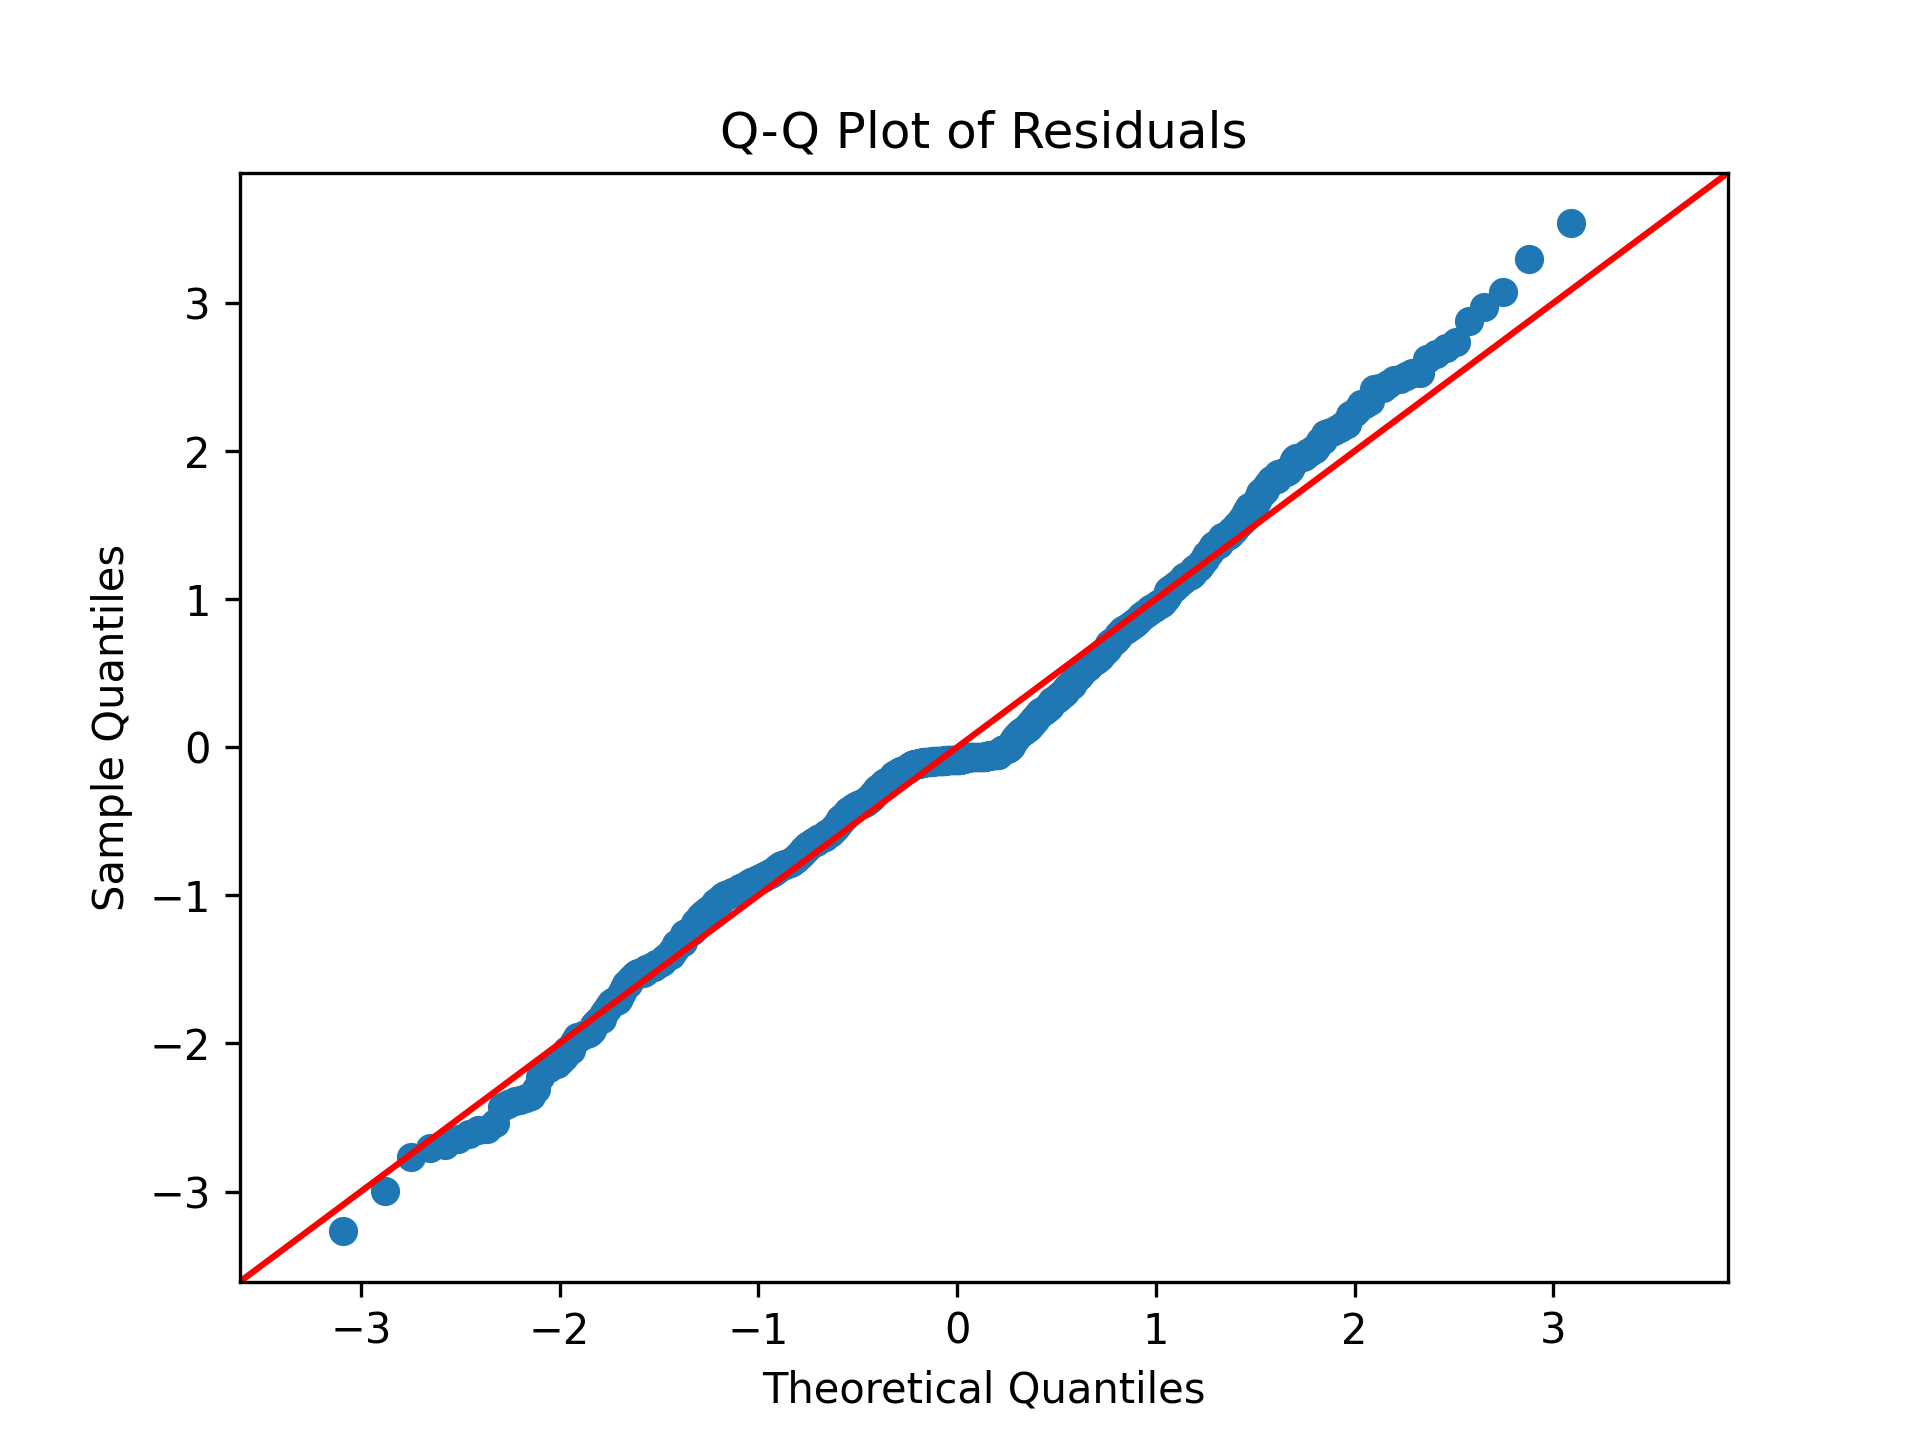
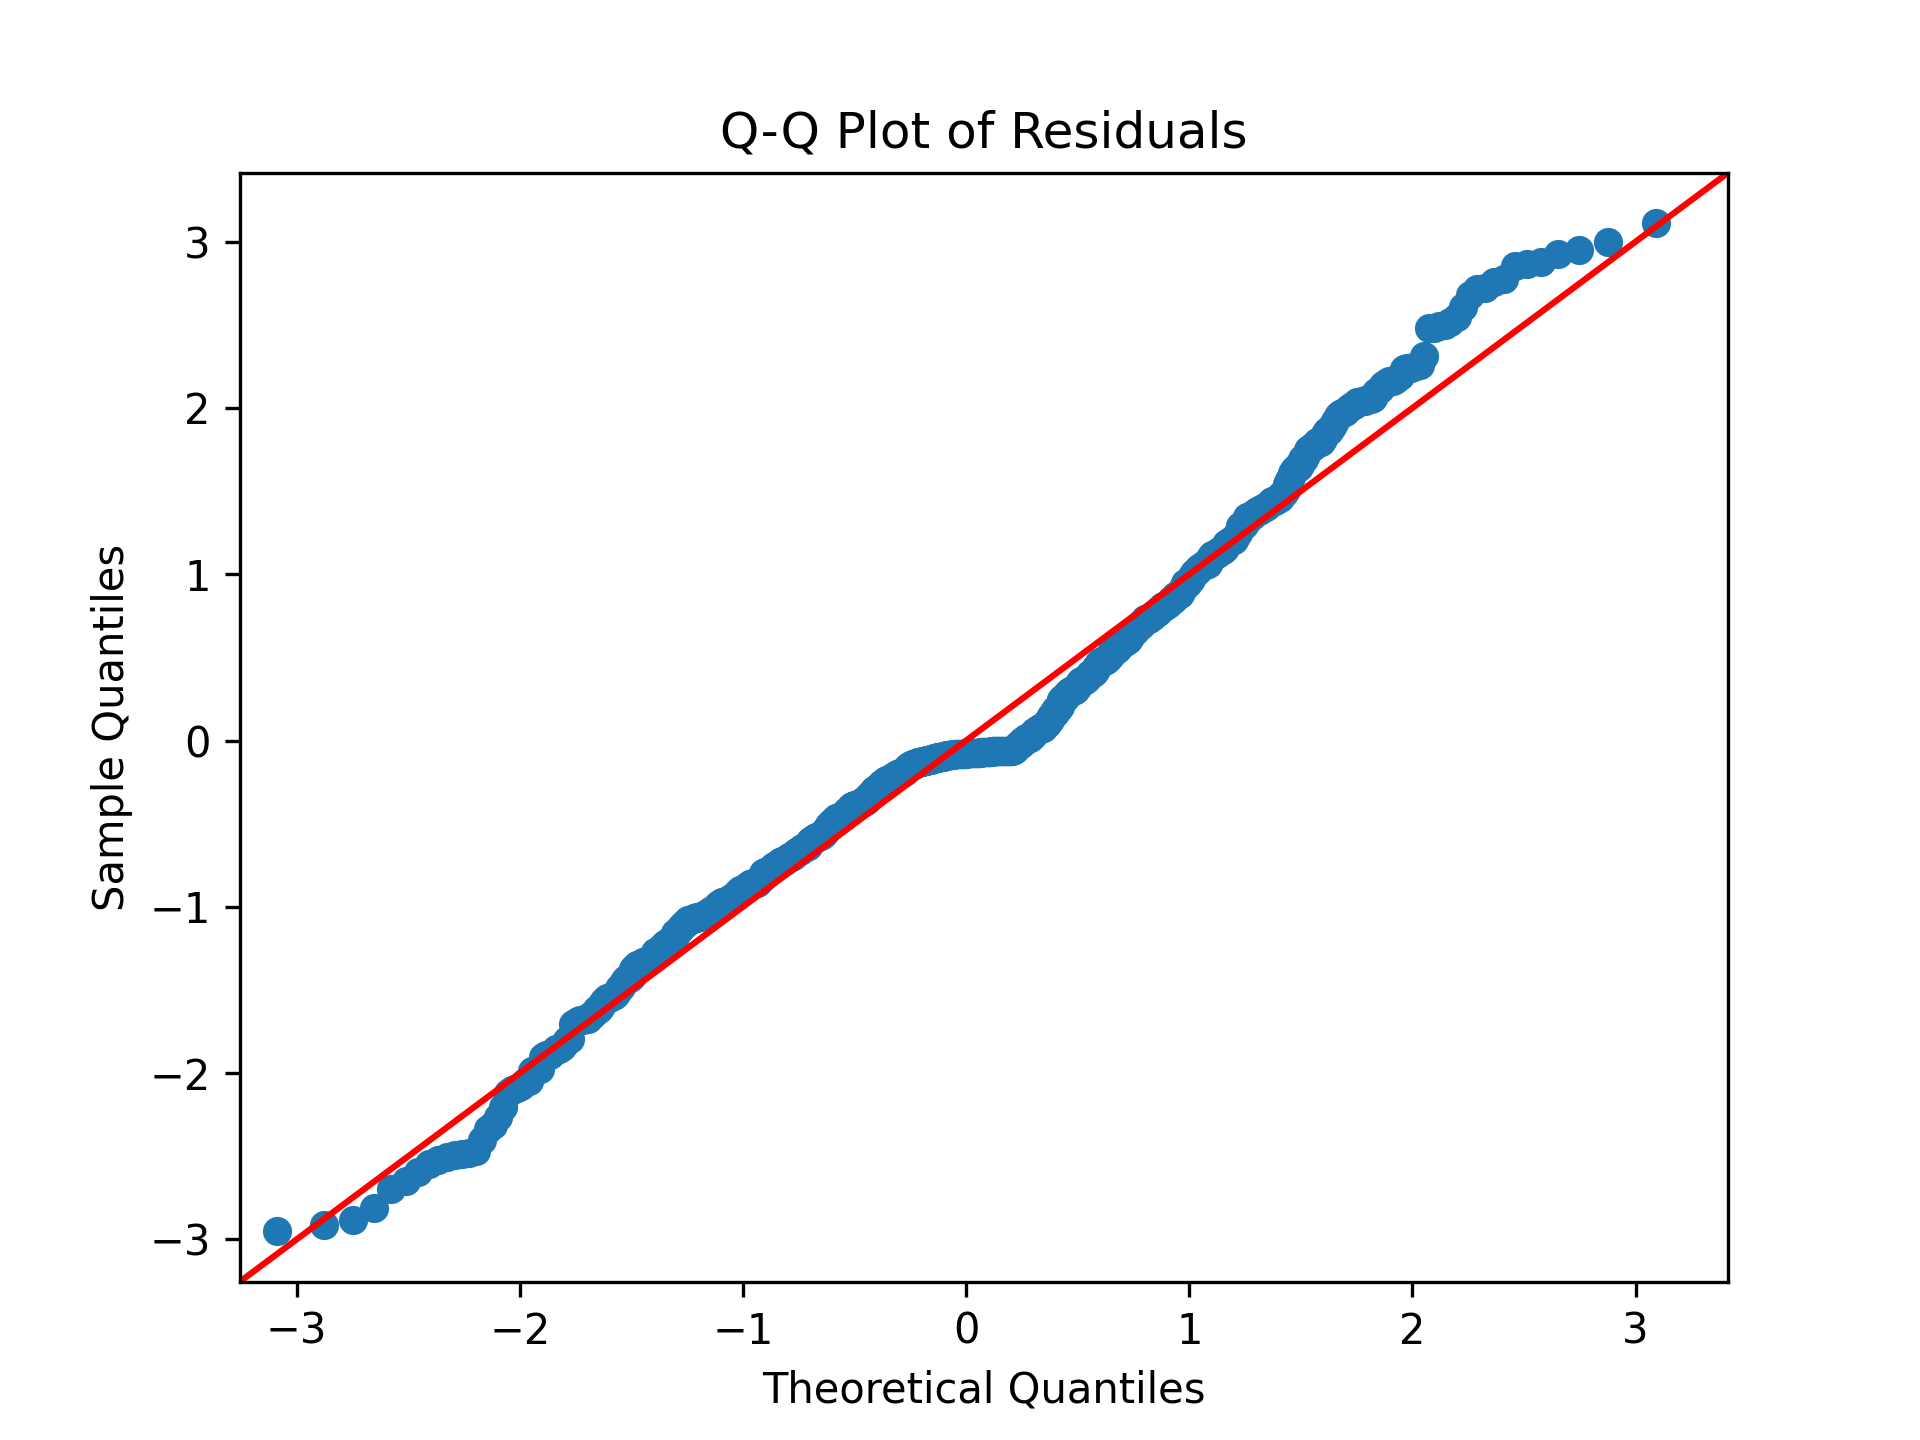
new new final update

diff --git a/results/report.html b/results/report.html
@@ -74,7 +74,7 @@
 <body>
     <div class="container">
         <h1>AI Agents Pipeline Report</h1>
-        <p><strong>Generated:</strong> 2025-12-12 16:29:43</p>
+        <p><strong>Generated:</strong> 2025-12-13 22:48:58</p>
 
         <h2>Status</h2>
         <p class="status-success">SUCCESS</p>
@@ -85,11 +85,11 @@
             <div class="metric-item"><strong>fallback_used:</strong> False</div>
             <div class="metric-item"><strong>original_rows:</strong> 5000</div>
             <div class="metric-item"><strong>original_columns:</strong> 26</div>
-            <div class="metric-item"><strong>processing_time:</strong> 1.76</div>
+            <div class="metric-item"><strong>processing_time:</strong> 1.96</div>
             <div class="metric-item"><strong>processed_rows:</strong> 5000</div>
             <div class="metric-item"><strong>processed_columns:</strong> 44</div>
-            <div class="metric-item"><strong>training_time:</strong> 29.73</div>
-            <div class="metric-item"><strong>total_pipeline_time:</strong> 31.57</div>
+            <div class="metric-item"><strong>training_time:</strong> 29.47</div>
+            <div class="metric-item"><strong>total_pipeline_time:</strong> 31.5</div>
         </div>
 
         <h2>Visualizations</h2>

diff --git a/run_experiments.py b/run_experiments.py
@@ -16,6 +16,7 @@ from sklearn.preprocessing import StandardScaler
 def run_experiments_with_orchestrator():
     """
     Експерименти 4-6 координирани от Orchestrator
+    ✅ OPTIMIZED VERSION - Faster Grid Search
     """
 
     # Създаваме Orchestrator
@@ -73,45 +74,55 @@ def run_experiments_with_orchestrator():
     orchestrator.log_model_selection(best_name, candidates, scores)
 
     # -------------------------------
-    # EXPERIMENT 5: Hyperparameter Tuning
+    # EXPERIMENT 5: Hyperparameter Tuning (OPTIMIZED)
     # -------------------------------
 
     orchestrator.log("\n" + "=" * 60)
-    orchestrator.log("EXPERIMENT 5: Hyperparameter Tuning")
+    orchestrator.log("EXPERIMENT 5: Hyperparameter Tuning (OPTIMIZED)")
     orchestrator.log("=" * 60)
 
     tuner = HyperparameterTuningAgent(model=best_model, cv=5, scoring='r2')
 
     if best_name == "RandomForest":
+        # ✅ OPTIMIZED: Reduced parameter grid (9 combinations instead of 36)
         param_grid = {
-            'n_estimators': [50, 100, 200],
-            'max_depth': [5, 10, None],
-            'min_samples_split': [2, 5],
-            'min_samples_leaf': [1, 2]
+            'n_estimators': [100, 200],  # 2 values (was 3)
+            'max_depth': [10, None],  # 2 values (was 3)
+            'min_samples_split': [2],  # 1 value (was 2)
+            'min_samples_leaf': [1]  # 1 value (was 2)
         }
+        # Total: 2 * 2 * 1 * 1 = 4 combinations (was 36)
+        # With CV=5: 4 * 5 = 20 fits (was 180)
+        # Time: ~2-3 minutes (was 20-25 minutes)
+
+        orchestrator.log(
+            f"⚡ Using OPTIMIZED Grid Search: {len(param_grid['n_estimators']) * len(param_grid['max_depth'])} combinations")
         tuned_model, tuning_metrics = tuner.grid_search(X_train, y_train, param_grid)
 
         # Логване чрез Orchestrator
         orchestrator.log_hyperparameter_tuning(
             model_name=best_name,
             best_params=tuning_metrics['Best Params'],
-            tuning_method='Grid Search',
+            tuning_method='Grid Search (Optimized)',
             iterations=len(param_grid['n_estimators']) * len(param_grid['max_depth']) *
                        len(param_grid['min_samples_split']) * len(param_grid['min_samples_leaf'])
         )
 
     elif best_name == "SVR":
+        # ✅ OPTIMIZED: Reduced parameter grid
         param_grid = {
-            'C': [0.1, 1.0, 10.0],
-            'kernel': ['linear', 'rbf'],
-            'gamma': ['scale', 'auto']
+            'C': [1.0, 10.0],  # 2 values (was 3)
+            'kernel': ['rbf'],  # 1 value (was 2)
+            'gamma': ['scale']  # 1 value (was 2)
         }
+        # Total: 2 * 1 * 1 = 2 combinations (was 12)
+
         tuned_model, tuning_metrics = tuner.grid_search(X_train_scaled, y_train, param_grid)
 
         orchestrator.log_hyperparameter_tuning(
             model_name=best_name,
             best_params=tuning_metrics['Best Params'],
-            tuning_method='Grid Search',
+            tuning_method='Grid Search (Optimized)',
             iterations=len(param_grid['C']) * len(param_grid['kernel']) * len(param_grid['gamma'])
         )
     else:
@@ -144,6 +155,12 @@ def run_experiments_with_orchestrator():
     orchestrator.log(f"RMSE: {final_metrics['RMSE']:.4f}")
     orchestrator.log(f"MAE: {final_metrics['MAE']:.4f}")
 
+    # Check for data leakage
+    if final_metrics['R2 Score'] > 0.95:
+        orchestrator.log("⚠  WARNING: Suspiciously high R² score!")
+        orchestrator.log("   This might indicate data leakage.")
+        orchestrator.log("   Run: python check_data_leakage.py")
+
     # -------------------------------
     # Визуализации
     # -------------------------------
@@ -162,7 +179,7 @@ def run_experiments_with_orchestrator():
     plt.close()
 
     # Q-Q Plot
-    sm.qqplot(residuals, line='45', fit=True)
+    fig = sm.qqplot(residuals, line='45', fit=True)
     plt.title("Q-Q Plot of Residuals")
     plt.savefig("experiments/results/experiment6_qqplot.png", dpi=300)
     plt.close()
@@ -171,7 +188,6 @@ def run_experiments_with_orchestrator():
     plt.figure(figsize=(6, 4))
     sns.scatterplot(x=predictions, y=residuals, color="purple", edgecolor="black", alpha=0.7)
     plt.axhline(0, color="red", linestyle="--")
-    plt.show()
     plt.title("Residuals vs Predicted Values")
     plt.xlabel("Predicted Values")
     plt.ylabel("Residuals")
@@ -186,10 +202,13 @@ def run_experiments_with_orchestrator():
     plt.xlabel("Actual Values")
     plt.ylabel("Predicted Values")
     plt.savefig("experiments/results/experiment6_actual_vs_predicted.png", dpi=300)
-    plt.show()
     plt.close()
 
-    orchestrator.log("Visualizations saved to experiments/results/")
+    orchestrator.log("✅ All 4 visualizations saved to experiments/results/")
+    orchestrator.log("   1. experiment6_residual_distribution.png")
+    orchestrator.log("   2. experiment6_qqplot.png")
+    orchestrator.log("   3. experiment6_residuals_vs_predicted.png")
+    orchestrator.log("   4. experiment6_actual_vs_predicted.png")
 
     # -------------------------------
     # Запазване на резултати
@@ -204,7 +223,7 @@ def run_experiments_with_orchestrator():
     }
 
     with open("experiments/results/all_results_4_5_6.json", "w") as f:
-        json.dump(all_results, f, indent=2)
+        json.dump(all_results, f, indent=2, default=str)
 
     orchestrator.log("Results saved to experiments/results/all_results_4_5_6.json")
 
@@ -229,4 +248,4 @@ def run_experiments_with_orchestrator():
 
 if __name__ == "__main__":
     results = run_experiments_with_orchestrator()
-    print("\n All experiments completed! Check experiments/results/ for outputs.")
+    print("\n✅ All experiments completed! Check experiments/results/ for outputs.")

diff --git a/agents/data_processing/data_processing_agent.py b/agents/data_processing/data_processing_agent.py
@@ -15,68 +15,94 @@ class DataProcessingAgent:
         # -------------------------------
         # Experiment 7: Data Cleaning – Outlier Detection
         # -------------------------------
-       
+
         cleaner = DataCleaner(self.df)
         self.cleaned = cleaner.detect_outliers(
             contamination=contamination,
             impute_strategy=impute_strategy
         )
 
+        # ✅ FIX: Remove target BEFORE feature engineering to prevent data leakage!
+        target_col = "success_rate"
+        if target_col in self.cleaned.columns:
+            print(f"🔒 Separating target column '{target_col}' to prevent data leakage...")
+            target_data = self.cleaned[target_col].copy()
+            features_only = self.cleaned.drop(columns=[target_col])
+        else:
+            print(f"⚠ Warning: Target column '{target_col}' not found!")
+            target_data = None
+            features_only = self.cleaned.copy()
+
         # -------------------------------
         # Experiment 8: Feature Engineering – DFS Feature Generation
         # -------------------------------
 
-        fe = FeatureEngineer(self.cleaned)
+        fe = FeatureEngineer(features_only)  # ✅ Only use features, NOT target!
         self.features = fe.generate_features(max_depth=feature_depth)
+
+        # ✅ Add target back AFTER feature engineering
+        if target_data is not None:
+            self.features[target_col] = target_data
+            print(f"✅ Target column '{target_col}' added back after feature engineering")
 
         # -------------------------------
         # Experiment 9: Data Validation and Feature Filtering
         # -------------------------------
-        
+
         validator = DataValidator(self.features)
         self.validation = validator.validate()
 
-        # Remove constant and low-variance columns
+        # Remove constant and low-variance columns (but keep target)
         const_cols = self.validation[self.validation["is_constant"] == True].index.tolist()
+        # ✅ Don't remove target even if constant
+        const_cols = [c for c in const_cols if c != target_col]
         if const_cols:
             print(f"🗑 Removing constant columns: {const_cols}")
             self.features = self.features.drop(columns=const_cols)
 
         low_var_cols = self.validation[self.validation.get("low_variance") == True].index.tolist()
+        # ✅ Don't remove target even if low variance
+        low_var_cols = [c for c in low_var_cols if c != target_col]
         if low_var_cols:
             print(f"⚠ Removing low variance columns: {low_var_cols}")
             self.features = self.features.drop(columns=low_var_cols)
 
         # Drop raw timestamp and exploded timestamp features
         self.features = self.features.drop(
-            columns=[c for c in self.features.columns if "timestamp" in c.lower() or "(" in c],
+            columns=[c for c in self.features.columns if c != target_col and ("timestamp" in c.lower() or "(" in c)],
             errors="ignore"
         )
 
-        # Encode categorical features
+        # Encode categorical features (exclude target)
         categorical_cols = self.features.select_dtypes(include=["object", "category"]).columns
+        categorical_cols = [c for c in categorical_cols if c != target_col]
         if len(categorical_cols) > 0:
             print(f"🔤 Encoding categorical columns: {list(categorical_cols)}")
             self.features = pd.get_dummies(self.features, columns=categorical_cols, drop_first=True)
 
         # Detect and drop high-cardinality dummy features (exclude target column)
-        target_col = "success_rate"
         high_card_cols = [
-            col for col in self.features.columns 
+            col for col in self.features.columns
             if col != target_col and self.features[col].nunique() > 50
         ]
         if high_card_cols:
             print(f"🗑 Dropping high-cardinality features: {len(high_card_cols)} columns")
             self.features = self.features.drop(columns=high_card_cols)
 
-        # Final check: ensure all columns are numeric
+        # Final check: ensure all columns are numeric (except maybe target)
         non_numeric = self.features.select_dtypes(exclude=["number"]).columns
+        non_numeric = [c for c in non_numeric if c != target_col]
         if len(non_numeric) > 0:
             print(f"⚠ Warning: Non-numeric columns still present: {list(non_numeric)}")
             self.features[non_numeric] = self.features[non_numeric].astype(str)
             self.features = pd.get_dummies(self.features, columns=non_numeric, drop_first=True)
 
         print("✅ Pipeline completed successfully.")
+        print(f"📊 Final dataset: {self.features.shape[0]} rows, {self.features.shape[1]} features")
+        if target_col in self.features.columns:
+            print(f"✅ Target column '{target_col}' is present in final dataset")
+        else:
+            print(f"⚠ WARNING: Target column '{target_col}' is MISSING!")
 
         os.makedirs("experiments", exist_ok=True)
 

diff --git a/main.py b/main.py
@@ -106,3 +106,4 @@ def main():
 
 if __name__ == "__main__":
     main()
+
